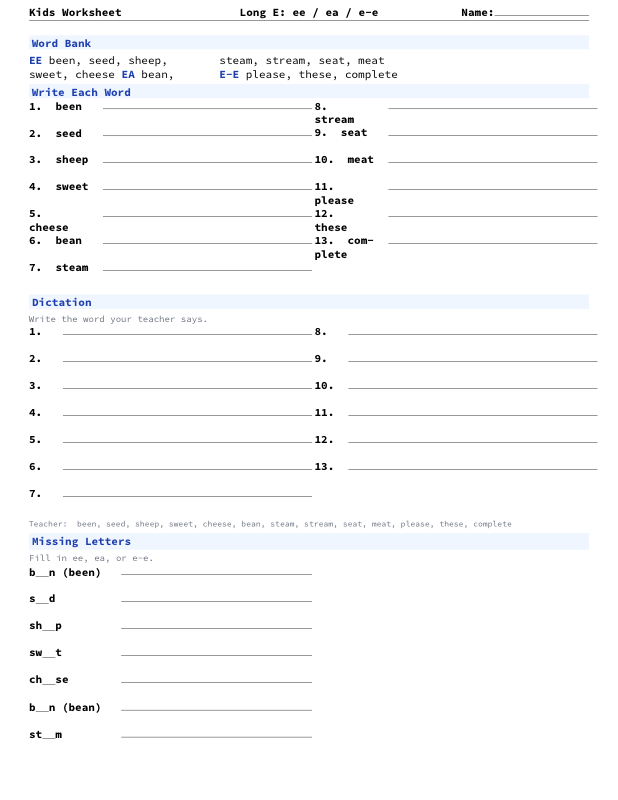
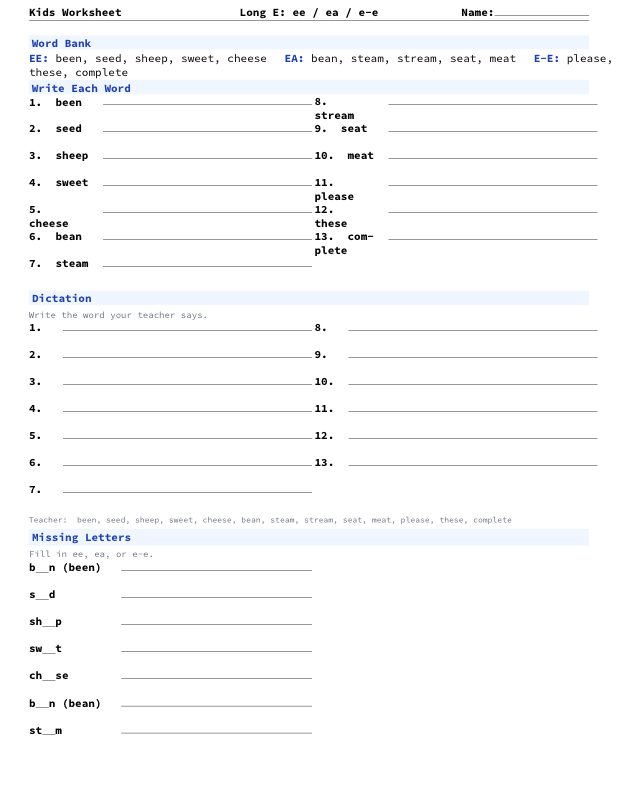
Change Word Bank to single row layout

diff --git a/src/word-test-long-e.tex b/src/word-test-long-e.tex
@@ -53,13 +53,9 @@
 
 % ==================== PAGE 1 ====================
 \Sec{Word Bank}
-\begin{multicols}{3}
-\textcolor{P}{\textbf{EE}} been, seed, sheep, sweet, cheese
-\columnbreak
-\textcolor{P}{\textbf{EA}} bean, steam, stream, seat, meat
-\columnbreak
-\textcolor{P}{\textbf{E-E}} please, these, complete
-\end{multicols}
+\textcolor{P}{\textbf{EE:}} been, seed, sheep, sweet, cheese \quad
+\textcolor{P}{\textbf{EA:}} bean, steam, stream, seat, meat \quad
+\textcolor{P}{\textbf{E-E:}} please, these, complete
 
 \vspace{-0.05in}
 \Sec{Write Each Word}
